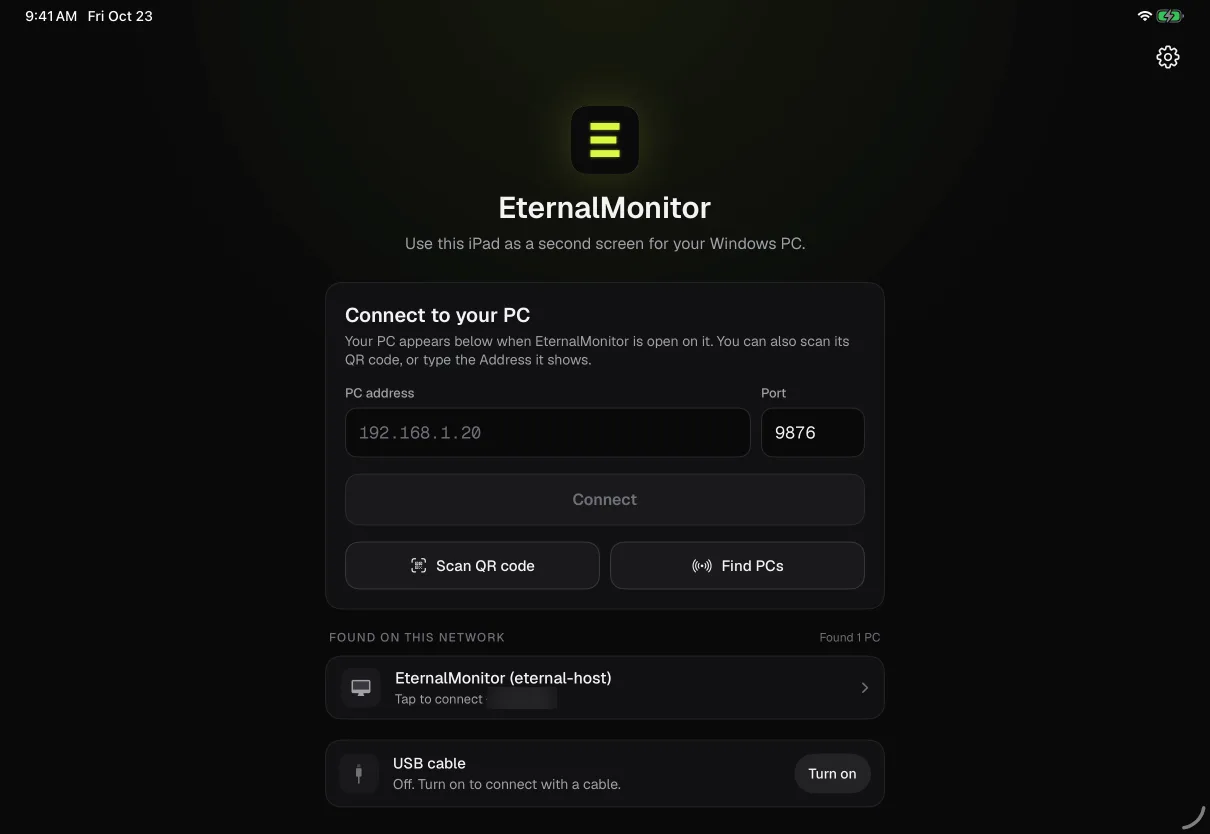
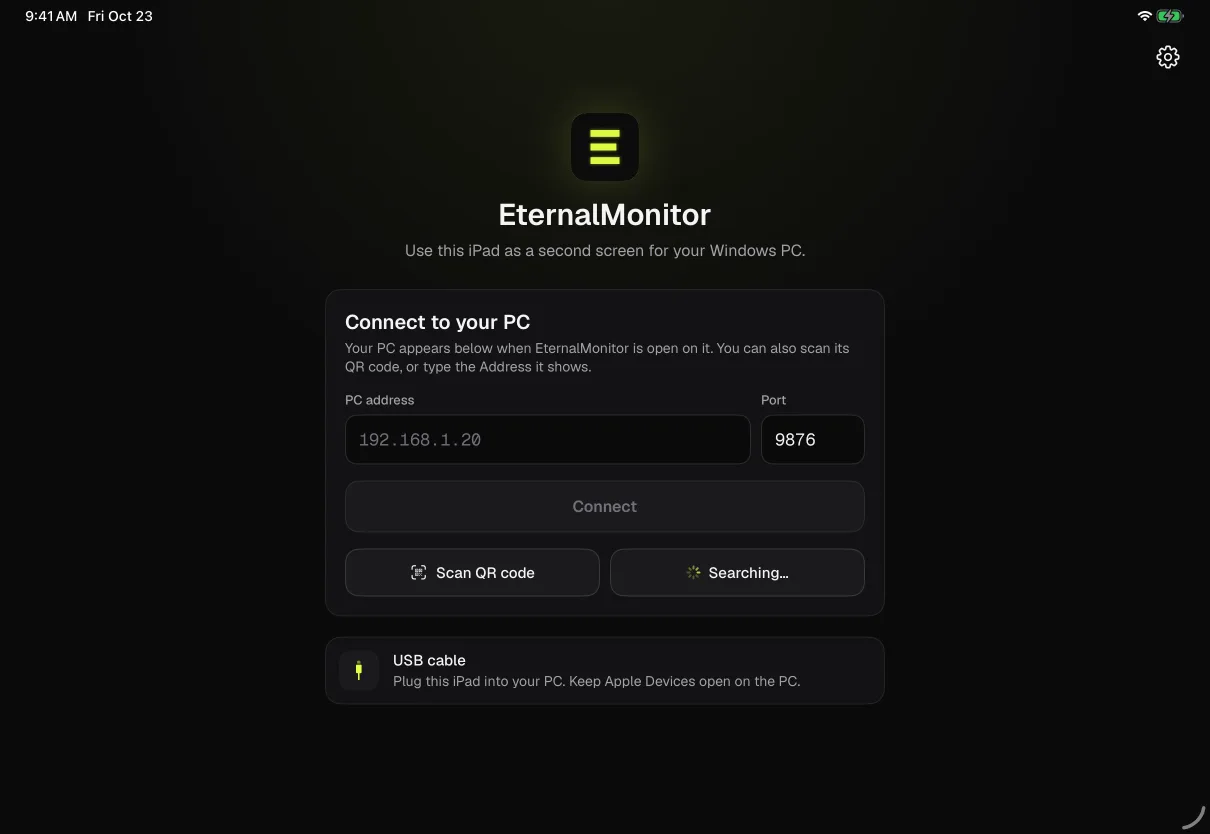
Show the Connect screen with USB on, and drop the stray pointers
The hero iPad and the share card showed USB cable: Off, but USB is on by default. The new capture uses default settings, still searching with no PC found, so there is no address to blur. The QR dialog and the Performance page are rendered again without the pointer the snapshot harness left from its last click. The README's description of the share card matches it.

diff --git a/docs/index.html b/docs/index.html
@@ -98,7 +98,7 @@
             <div class="shot shot-ipad">
               <div class="tablet">
                 <div class="screen">
-                  <img src="assets/ipad-connect.webp" srcset="assets/ipad-connect.webp 1210w, assets/ipad-connect@2x.webp 2420w" sizes="(max-width: 720px) 62vw, 500px" width="2420" height="1668" decoding="async" alt="The iPad app's Connect to your PC screen: fields for the PC's address and port, Connect, Scan QR code and Find PCs buttons, one PC found on the network with its address blurred, and a USB cable row.">
+                  <img src="assets/ipad-connect.webp" srcset="assets/ipad-connect.webp 1210w, assets/ipad-connect@2x.webp 2420w" sizes="(max-width: 720px) 62vw, 500px" width="2420" height="1668" decoding="async" alt="The iPad app's Connect to your PC screen: fields for the PC's address and port, Connect, Scan QR code and Find PCs buttons, Find PCs searching, and a USB cable row saying to plug the iPad into the PC and keep Apple Devices open.">
                 </div>
               </div>
               <p class="shot-label">iPad app</p>

diff --git a/README.md b/README.md
@@ -18,7 +18,7 @@ and control the PC with touch, a keyboard or Apple Pencil.
 </div>
 
 <p align="center">
-  <img src="docs/assets/og.png" width="860" alt="The EternalMonitor Windows app streaming a desktop to an iPad Pro">
+  <img src="docs/assets/og.png" width="860" alt="The EternalMonitor Windows app ready for an iPad, beside the iPad app's Connect to your PC screen">
 </p>
 
 EternalMonitor streams your Windows desktop to an iPad and sends your input back.
